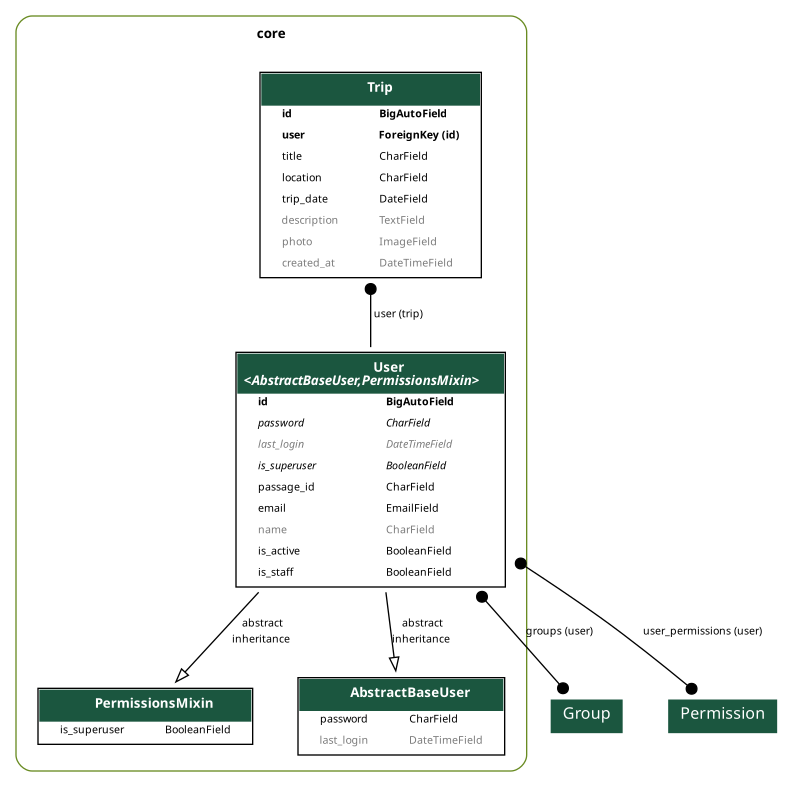
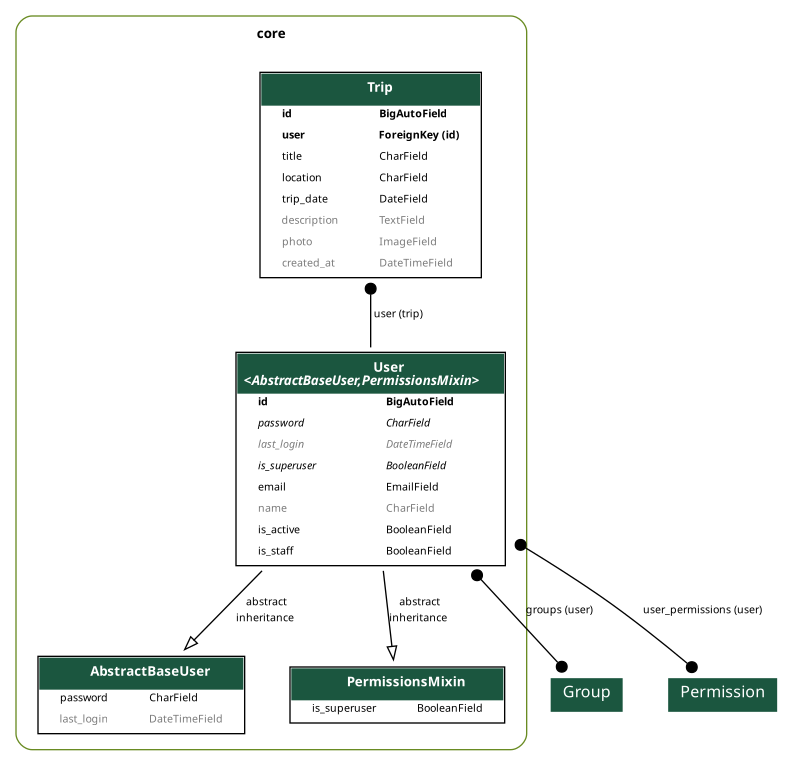
feat: remove passage_id from User model and update related files

diff --git a/core/models/user.py b/core/models/user.py
@@ -40,7 +40,6 @@ class UserManager(BaseUserManager):
 class User(AbstractBaseUser, PermissionsMixin):
     """User model in the system."""
 
-    passage_id = models.CharField(max_length=255, unique=True, verbose_name=_('passage_id'), help_text=_('Passage ID'))
     email = models.EmailField(max_length=255, unique=True, verbose_name=_('email'), help_text=_('Email'))
     name = models.CharField(max_length=255, blank=True, null=True, verbose_name=_('name'), help_text=_('Username'))
     is_active = models.BooleanField(
@@ -61,4 +60,5 @@ class User(AbstractBaseUser, PermissionsMixin):
         """Meta options for the model."""
 
         verbose_name = 'Usuário'
+        verbose_name_plural = 'Usuários'
         verbose_name_plural = 'Usuários'

diff --git a/core/migrations/0006_remove_user_passage_id.py b/core/migrations/0006_remove_user_passage_id.py
@@ -1,0 +1,17 @@
+# Generated by Django 5.1.7 on 2025-07-01 13:33
+
+from django.db import migrations
+
+
+class Migration(migrations.Migration):
+
+    dependencies = [
+        ('core', '0005_trip'),
+    ]
+
+    operations = [
+        migrations.RemoveField(
+            model_name='user',
+            name='passage_id',
+        ),
+    ]

diff --git a/core/admin.py b/core/admin.py
@@ -16,7 +16,7 @@ class UserAdmin(BaseUserAdmin):
     list_display = ['email', 'name']
     fieldsets = (
         (None, {'fields': ('email', 'password')}),
-        (_('Personal Info'), {'fields': ('name', 'passage_id')}),
+        (_('Personal Info'), {'fields': ('name',)}),
         (
             _('Permissions'),
             {

diff --git a/app/urls.py b/app/urls.py
@@ -12,7 +12,7 @@ from core.views import UserViewSet, TripViewSet
 
 router = DefaultRouter()
 
-# router.register(r'usuarios', UserViewSet, basename='usuarios')
+router.register(r'usuarios', UserViewSet, basename='usuarios')
 router.register(r'trips', TripViewSet, basename='trips')
 
 urlpatterns = [

diff --git a/app/settings.py b/app/settings.py
@@ -20,6 +20,8 @@ ALLOWED_HOSTS = ['*']
 CSRF_TRUSTED_ORIGINS = [
     'http://localhost:3000',
     'http://localhost:8000',
+    'http://localhost:5173',
+    'http://localhost:5175',
 ]
 
 # Application definition

diff --git a/docs/template.md b/docs/template.md
@@ -1,6 +1,6 @@
 # Template de projeto Django com DRF e PDM
 
-Esse é um template de projeto Django com DRF, PDM e muito mais. Ele já vem com algumas configurações e pacotes pré-instalados, como o PDM, Django, Django REST Framework, PostgreSQL, SQLite, Swagger, black, isort, Render, Cloudinary, Corsheaders, Django-Extensions, Django-Filter, dotenv, dj-database-url, drf-spectacular, gunicorn, netifaces, rest-framework-simplejwt, whitenoise e passage.id
+Esse é um template de projeto Django com DRF, PDM e muito mais. Ele já vem com algumas configurações e pacotes pré-instalados, como o PDM, Django, Django REST Framework, PostgreSQL, SQLite, Swagger, black, isort, Render, Cloudinary, Corsheaders, Django-Extensions, Django-Filter, dotenv, dj-database-url, drf-spectacular, gunicorn, netifaces, rest-framework-simplejwt e whitenoise.
 
 Esse template já está pronto para ser utilizado em produção, com o [Render](http://render.com) e o [PostgreSQL](https://www.postgresql.org/). Mas também pode ser utilizado em desenvolvimento, com o [PDM](https://pdm.fming.dev/) e o [SQLite](https://www.sqlite.org/index.html).
 
@@ -16,7 +16,7 @@ O template também já vem com alguns arquivos de configuração pré-configurad
 
 O template também traz o usuário padrão modificado, com o login sendo feito com o `e-mail` e não com o `username`. Inclusões de campos, como `telefone`, `data de nascimento` e `foto de perfil`, podem ser feitas facilmente.
 
-O projeto Django criado chama-se `app` e a aplicação Django criada chama-se `core`. O projeto já vem com um modelo de usuário customizado, com autenticação pelo `passage.id`. Arquivos estáticos, como fotos, podem ser armazenados no [Cloudinary](https://cloudinary.com/).
+O projeto Django criado chama-se `app` e a aplicação Django criada chama-se `core`. O projeto já vem com um modelo de usuário customizado, com autenticação por email e senha. Arquivos estáticos, como fotos, podem ser armazenados no [Cloudinary](https://cloudinary.com/).
 
 O projeto também já vem com a documentação da API, gerada automaticamente pelo Swagger, e com a formatação de código Python, feita pelo black e pelo isort.
 
@@ -87,7 +87,6 @@ Esse projeto utiliza os seguintes pacotes e tecnologias:
 - [netifaces](https://pypi.org/project/netifaces/): Pacote para obter o endereço IP da máquina.
 - [rest-framework-simplejwt](https://django-rest-framework-simplejwt.readthedocs.io/en/latest/): Pacote para autenticação JWT em APIs REST.
 - [whitenoise](http://whitenoise.evans.io/en/stable/): Pacote para servir arquivos estáticos em aplicações Django.
-- [passage.id](https://passage.id): Pacote para autenticação de usuários.
 
 ## Licença
 
